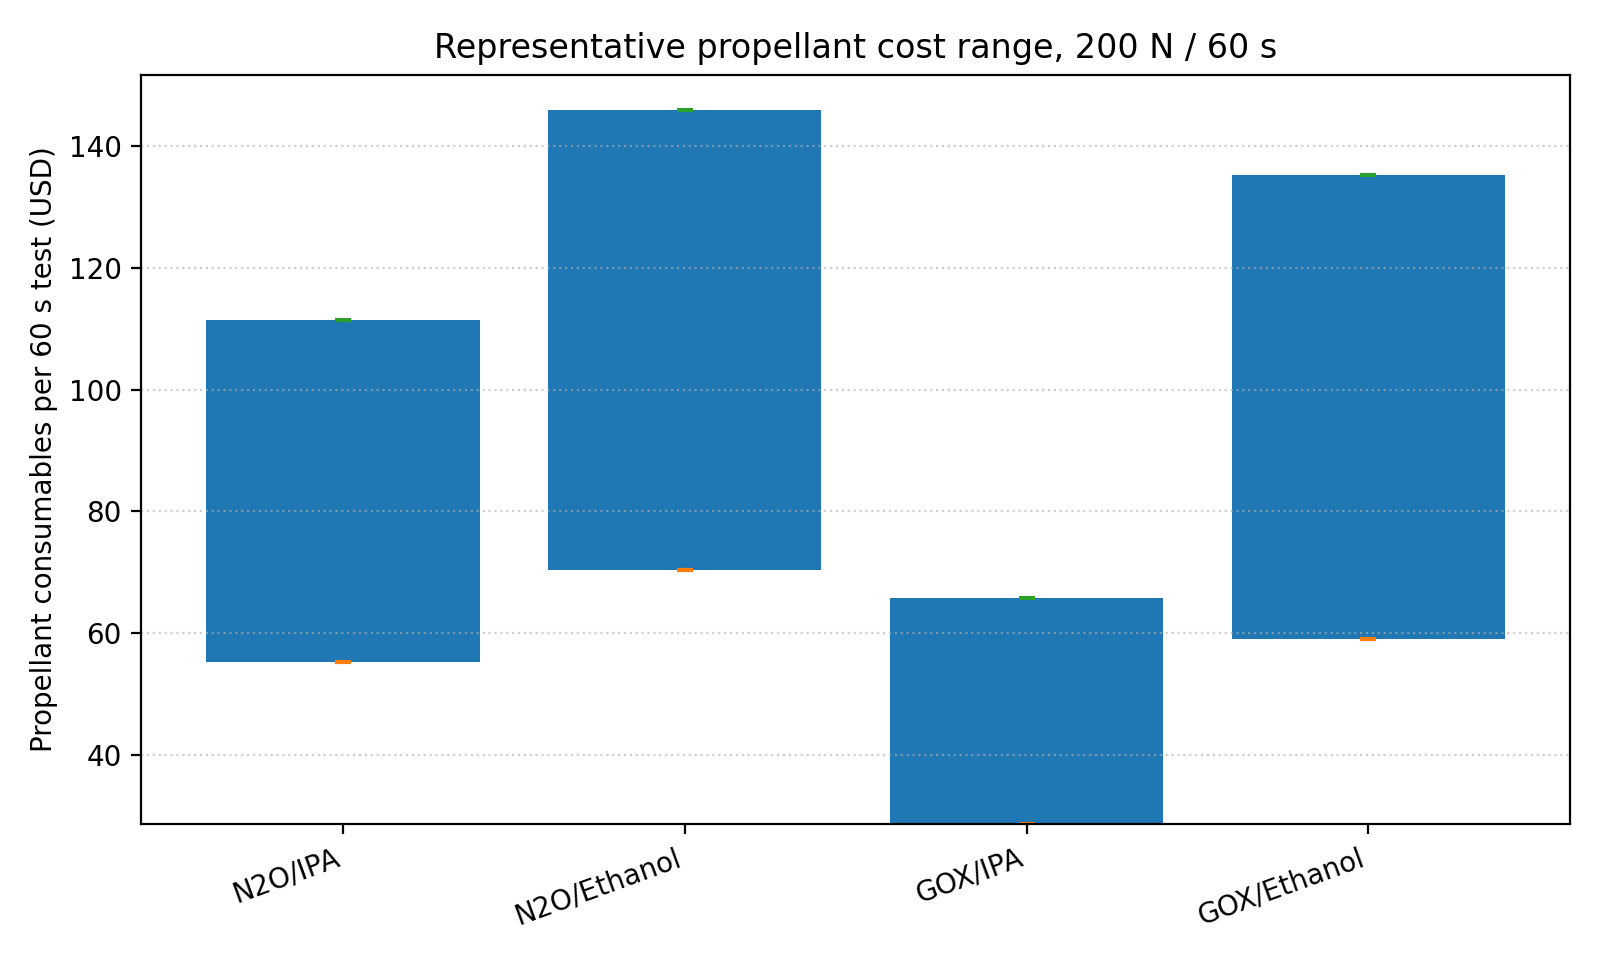
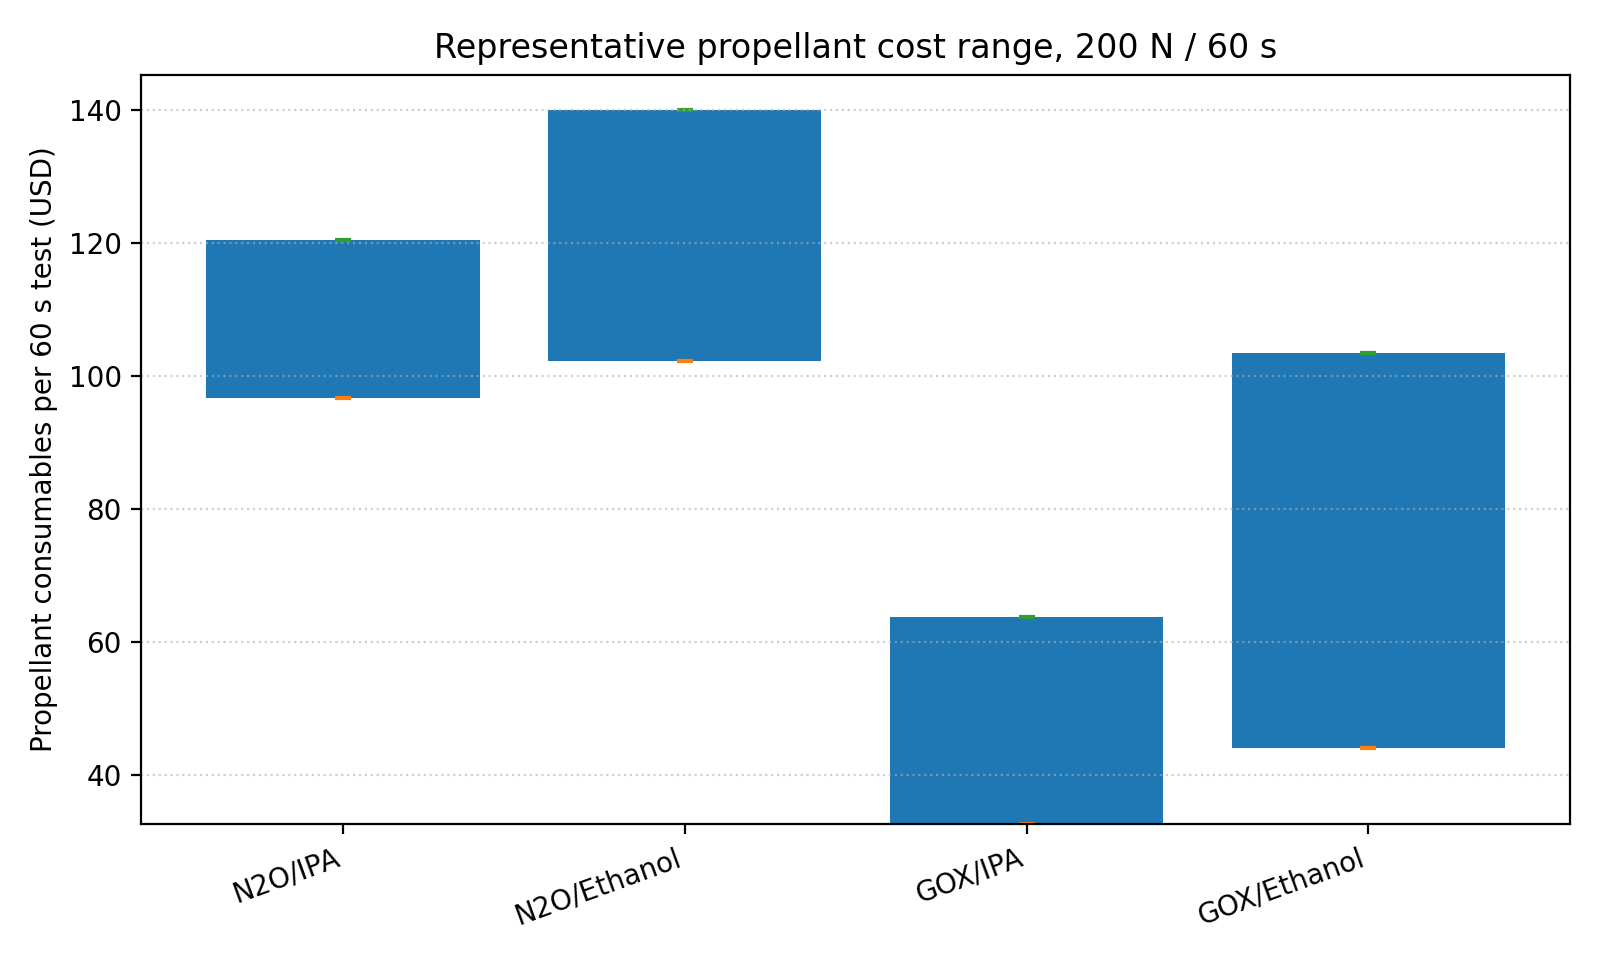
added new notebook iteration

diff --git a/rocket/generate_selection_assets.py b/rocket/generate_selection_assets.py
@@ -35,18 +35,18 @@ FUEL_DENSITY = {'IPA': DENSITY['IPA_kg_m3'], 'Ethanol': DENSITY['Ethanol_kg_m3']
 
 # Representative planning prices; replace with local quotes before procurement.
 PRICE = {
-    'N2O': (10.0, 20.0),        # USD/kg, 10-lb/bulk cylinder refill planning range
-    'GOX': (5.0, 12.0),         # USD/kg gas only, welding oxygen refill planning range
-    'IPA': (6.0, 13.0),         # USD/kg, 99% gallon/5-gal retail planning range
-    'Ethanol': (20.0, 45.0),    # USD/kg, 200-proof/denatured anhydrous planning range
-    'Peroxide85': (20.0, 60.0), # USD/kg quote-only hazardous oxidizer placeholder
+    'N2O': (18.0, 22.0),       # USD/kg, public motorsport refill anchor; local industrial quotes may be lower
+    'GOX': (5.0, 12.0),        # USD/kg gas only; supplier quotes are location/account dependent
+    'IPA': (8.0, 12.0),        # USD/kg, 99% gallon retail planning range
+    'Ethanol': (13.0, 30.0),   # USD/kg, 200-proof compatible denatured/tax-paid public anchors
+    'Peroxide85': (20.0, 60.0),# USD/kg quote-only hazardous oxidizer placeholder
 }
 
 HARDWARE = {
     'N2O': {
-        'storage_hardware_usd_low': 200,
-        'storage_hardware_usd_high': 650,
-        'notes': 'DOT nitrous cylinder(s), compatible valve, relief device, fill adapter; no oxidizer pressure regulator in baseline self-pressurized feed.'
+        'storage_hardware_usd_low': 300,
+        'storage_hardware_usd_high': 700,
+        'notes': 'DOT/motorsport nitrous cylinder(s), compatible valve, relief device, fill adapter; no oxidizer pressure regulator in baseline self-pressurized feed.'
     },
     'GOX': {
         'storage_hardware_usd_low': 650,

diff --git a/rocket/COST_MODEL.md b/rocket/COST_MODEL.md
@@ -28,10 +28,10 @@ V_GOX = m * R_O2 * T_storage / P_storage
 
 | Item | Planning price | Notes |
 |---|---:|---|
-| N2O | $10-20/kg | Local refill/cylinder exchange pricing varies. Do not size around 8 g cream chargers. |
+| N2O | $18-22/kg | Public motorsport refill anchor; local industrial quotes may be lower. Do not size around 8 g cream chargers. |
 | GOX | $5-12/kg gas | Gas refill is not the main cost. Cylinder/regulator/cleaning hardware is. |
-| IPA 99% | $6-13/kg | Based on gallon/5-gallon retail/industrial planning ranges. |
-| Anhydrous ethanol | $20-45/kg | 200-proof or compatible denatured ethanol. Avoid 190-proof baseline. |
+| IPA 99% | $8-12/kg | Based on public 99% IPA gallon pricing before shipping/hazmat. |
+| Anhydrous ethanol | $13-30/kg | 200-proof or compatible denatured/tax-paid public anchors. Avoid 190-proof baseline. |
 | 85% H2O2 | $20-60+/kg | Quote-only hazardous/specialty oxidizer placeholder. |
 
 ## Important limitations
@@ -39,5 +39,5 @@ V_GOX = m * R_O2 * T_storage / P_storage
 1. Industrial gas prices are often not public and are location/account dependent. Before buying hardware, replace the planning ranges with local quotes.
 2. The GOX tank-volume calculation assumes ideal-gas storage at 2200 psia and 293 K. This is good enough for architecture comparison, not final vessel sizing.
 3. The N2O tank-volume calculation assumes saturated liquid near room temperature and a 20% ullage/design margin. Actual fill limits depend on cylinder rating, valve, temperature envelope, and supplier rules.
-4. Hardware cost ranges include only oxidizer storage/feed-specific items. They do not include the chamber, injector, cooling jacket, test stand, instrumentation, or avionics.
+4. Hardware cost ranges include only oxidizer storage/feed-specific items and use public bottle/cylinder/regulator anchors where available. They do not include the chamber, injector, cooling jacket, test stand, instrumentation, or avionics.
 5. All high-pressure oxygen hardware must be oxygen-cleaned and compatible with oxygen service.